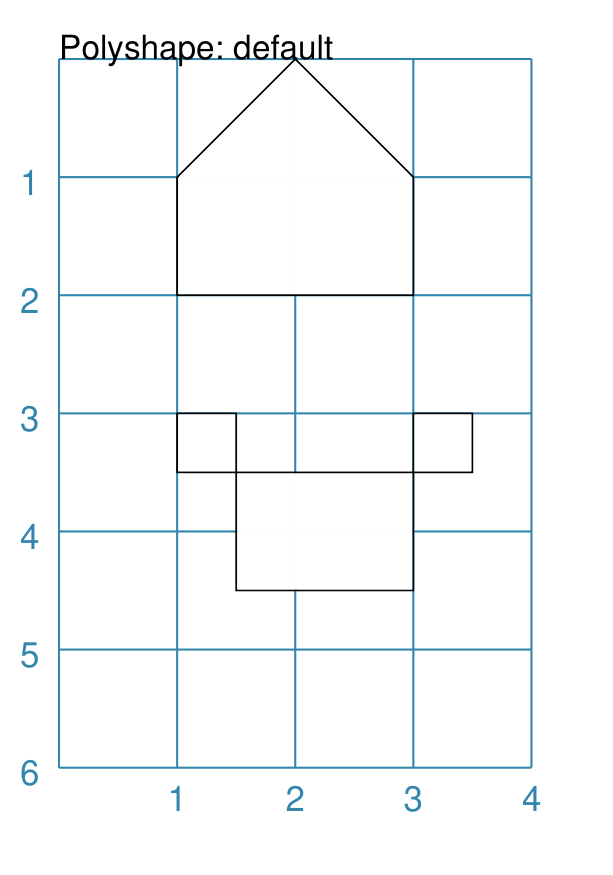
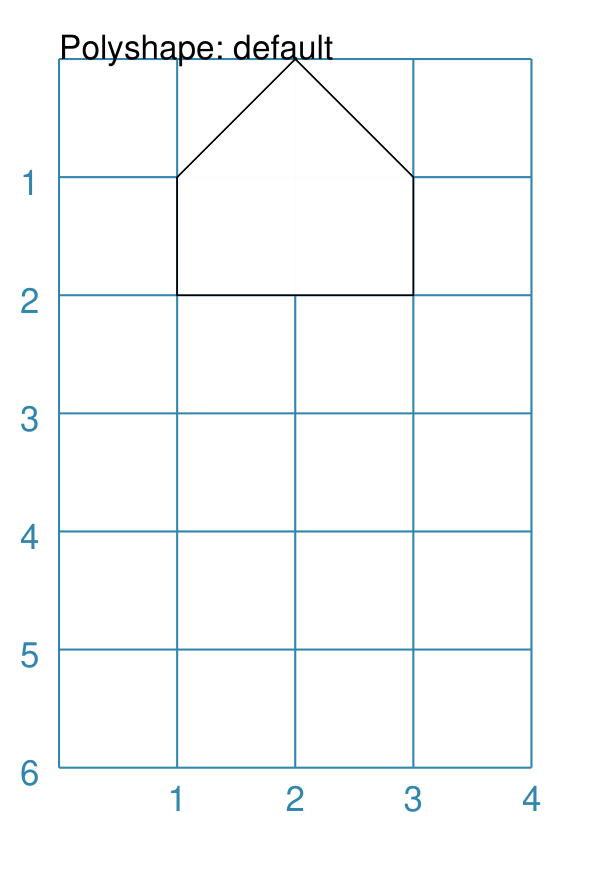
Add slices to Polygon shape

Changed region(s): [[0.279, 0.4629, 0.7749, 0.6789]]

diff --git a/protograf/shapes.py b/protograf/shapes.py
@@ -2975,6 +2975,47 @@ class PolygonShape(BaseShape):
             dotted=self.radii_dotted,
         )
 
+    def draw_slices(self, cnv, ID, centre: Point, vertexes: list, rotation=0):
+        """Draw triangles inside the Polygon
+
+        Args:
+            ID: unique ID
+            vertexes: list of Polygon's nodes as Points
+            centre: the centre Point of the Polygon
+            rotation: degrees anti-clockwise from horizontal "east"
+        """
+        # ---- get slices color list from string
+        if isinstance(self.slices, str):
+            _slices = tools.split(self.slices.strip())
+        else:
+            _slices = self.slices
+        # ---- validate slices color settings
+        slices_colors = [
+            colrs.get_color(slcolor)
+            for slcolor in _slices
+            if not isinstance(slcolor, bool)
+        ]
+        # ---- draw triangle per slice; iterate through colors as needed!
+        # print(f'*** PS {slices_colors=} {vertexes=}')
+        cid = 0
+        for vid in range(0, len(vertexes)):
+            scolor = slices_colors[cid]
+            vnext = vid + 1 if vid < len(vertexes) - 1 else 0
+            vertexes_slice = [vertexes[vid], centre, vertexes[vnext]]
+            cnv.draw_polyline(vertexes_slice)
+            self.set_canvas_props(
+                index=ID,
+                stroke=self.slices_stroke or scolor,
+                stroke_ends=self.slices_ends,
+                fill=scolor,
+                closed=True,
+                rotation=rotation,
+                rotation_point=muPoint(centre[0], centre[1]),
+            )
+            cid += 1
+            if cid > len(slices_colors) - 1:
+                cid = 0
+
     def get_geometry(self, rotation: float = None, is_rotated: bool = False):
         """Calculate centre, radius, side and vertices of Polygon."""
         # convert to using units
@@ -3091,6 +3132,15 @@ class PolygonShape(BaseShape):
         cnv.draw_polyline(vertices)
         kwargs["closed"] = True
         self.set_canvas_props(cnv=cnv, index=ID, **kwargs)
+        # ---- draw slices
+        if self.slices:
+            self.draw_slices(
+                cnv,
+                ID,
+                Point(x, y),
+                vertices,
+                rotation=kwargs.get("rotation"),
+            )
         # ---- draw radii
         if self.radii:
             self.draw_radii(cnv, ID, Point(x, y), vertices)

diff --git a/examples/core/customised_shapes.py b/examples/core/customised_shapes.py
@@ -227,6 +227,14 @@ Polygon(
     dot=0.1, dot_stroke="red")
 PageBreak()
 
+# ---- polygon slices
+Text(common=txt, text="Polygon: slices")
+Polygon(
+    cx=2, cy=1, sides=8, radius=1,
+    slices=['red', 'orange', 'yellow', 'green',
+            'aqua', 'pink', 'violet', 'purple'])
+PageBreak()
+
 # ---- dates
 Blueprint()
 Text(common=txt, text="Dates: format and styles")
@@ -438,8 +446,8 @@ PageBreak()
 Blueprint(stroke_width=0.5)
 Text(common=txt, text="Polyshape: default")
 Polyshape(points=[(1, 2), (1, 1), (2, 0), (3, 1), (3, 2)])
-Polyshape(x=1, y=3,
-         steps='0.5,0 0,1.5 1.5,0 0,-1.5 0.5,0 0,0.5 -2.5,0 0,-0.5')
+# Polyshape(x=1, y=3,
+#          steps='0.5,0 0,1.5 1.5,0 0,-1.5 0.5,0 0,0.5 -2.5,0 0,-0.5')
 PageBreak()
 
 # ---- polyshape - custom
@@ -838,7 +846,7 @@ Save(
         "starfield_poly", "equilateral_triangle", "right_angled_triangle_flip",
         "sectors", "grid_gray", "dotgrid_moleskine", "dotgrid_rowscols", "arc",
         "stadium_edges", "trapezoid_flip", "chord",
-        "polygon_radii", "polygon_perbis",
+        "polygon_radii", "polygon_perbis", "polygon_slices",
         "dates_formats",
         "images_normal_rotation", "rhombus_red_rotation",
         "stadium_red_rotation",

diff --git a/docs/source/core_shapes.rst b/docs/source/core_shapes.rst
@@ -1104,8 +1104,12 @@ is a polygon with 8 sides.
 
     **HINT** Unlike the `Hexagon`_ shape, a Polygon can be rotated!
 
+The following examples
+
+
 Example 1. Default Polygon
 ++++++++++++++++++++++++++
+`^ <polygon-command_>`_
 
 .. |pol| image:: images/defaults/polygon.png
    :width: 330
@@ -1127,6 +1131,7 @@ Example 1. Default Polygon
 
 Example 2. Polygon with Sides
 +++++++++++++++++++++++++++++
+`^ <polygon-command_>`_
 
 .. |pl1| image:: images/customised/polygon_sizes.png
    :width: 330
@@ -1137,9 +1142,15 @@ Example 2. Polygon with Sides
 
       .. code:: python
 
-        Polygon(cx=1, cy=5, sides=7, radius=1, label="Seven")
-        Polygon(cx=2, cy=3, sides=6, radius=1, label="Six")
-        Polygon(cx=3, cy=1, sides=5, radius=1, label="Five")
+        Polygon(
+            cx=1, cy=5, sides=7,
+            radius=1, label="Seven")
+        Polygon(
+            cx=2, cy=3, sides=6,
+            radius=1, label="Six")
+        Polygon(
+            cx=3, cy=1, sides=5,
+            radius=1, label="Five")
 
       It can be seen that each shape is constructed as follows:
 
@@ -1153,6 +1164,7 @@ Example 2. Polygon with Sides
 
 Example 3. Polygon Radii
 ++++++++++++++++++++++++
+`^ <polygon-command_>`_
 
 .. |pl2| image:: images/customised/polygon_radii.png
    :width: 330
@@ -1165,7 +1177,9 @@ Example 3. Polygon Radii
 
       .. code:: python
 
-          Polygon(cx=2, cy=4, sides=8, radius=1, radii=True)
+          Polygon(
+              cx=2, cy=4, sides=8, radius=1,
+              radii=True)
 
       It has the following properties:
 
@@ -1182,7 +1196,9 @@ Example 3. Polygon Radii
           Polygon(
               cx=2, cy=1, sides=10, radius=1,
               radii=True,
-              radii_offset=0.75, radii_length=0.25, radii_stroke_width=1,
+              radii_offset=0.75,
+              radii_length=0.25,
+              radii_stroke_width=1,
               dot=0.1, dot_stroke="red"
           )
 
@@ -1209,6 +1225,7 @@ Example 3. Polygon Radii
 
 Example 4. Polygon with Perbis
 ++++++++++++++++++++++++++++++
+`^ <polygon-command_>`_
 
 The *perbis* |dash| short for "perpendicular bisector" |dash| defines
 lines that should be drawn from the centres of the sides of the polygon
@@ -1225,7 +1242,9 @@ to the polygon's centre.
 
       .. code:: python
 
-          Polygon(cx=2, cy=4, sides=8, radius=1, perbis='*')
+          Polygon(
+              cx=2, cy=4, sides=8,
+              radius=1, perbis='*')
 
       It has the following properties:
 
@@ -1242,7 +1261,9 @@ to the polygon's centre.
           Polygon(
             cx=2, cy=1, sides=8, radius=1,
             perbis="2,4,7",
-            perbis_offset=0.25, perbis_length=0.5, perbis_stroke_width=1,
+            perbis_offset=0.25,
+            perbis_length=0.5,
+            perbis_stroke_width=1,
             dot=0.1, dot_stroke="red")
 
       It has the following properties:
@@ -1271,6 +1292,7 @@ to the polygon's centre.
 
 Example 5. Polygon Rotation
 +++++++++++++++++++++++++++
+`^ <polygon-command_>`_
 
 .. |pl4| image:: images/customised/polygon_rotation_flat.png
    :width: 330
@@ -1281,11 +1303,25 @@ Example 5. Polygon Rotation
 
       .. code:: python
 
-        Polygon(common=poly6, y=1, x=1.0, label="0")
-        Polygon(common=poly6, y=2, x=1.5, rotation=15, label="15")
-        Polygon(common=poly6, y=3, x=2.0, rotation=30, label="30")
-        Polygon(common=poly6, y=4, x=2.5, rotation=45, label="45")
-        Polygon(common=poly6, y=5, x=3.0, rotation=60, label="60")
+        Polygon(
+            common=poly6,
+            y=1, x=1.0, label="0")
+        Polygon(
+            common=poly6,
+            y=2, x=1.5,
+            rotation=15, label="15")
+        Polygon(
+            common=poly6,
+            y=3, x=2.0,
+            rotation=30, label="30")
+        Polygon(
+            common=poly6,
+            y=4, x=2.5,
+            rotation=45, label="45")
+        Polygon(
+            common=poly6,
+            y=5, x=3.0,
+            rotation=60, label="60")
 
       The examples have the following properties:
 
@@ -1298,6 +1334,36 @@ Example 5. Polygon Rotation
 
 ===== ======
 
+Example 6. Polygon Slices
++++++++++++++++++++++++++
+`^ <polygon-command_>`_
+
+Slices are a set of colors that are drawn as triangles inside a
+a Polygon in a clockwise direction starting from the "South East".
+If there are fewer colors than all the possible triangles, then the
+colors are repeated, starting from the first one.
+
+.. |pl5| image:: images/customised/polygon_slices.png
+   :width: 330
+
+===== ======
+|pl5| This example shows a Polygon constructed using these commands:
+
+      .. code:: python
+
+        Polygon(
+            cx=2, cy=1, sides=8, radius=1,
+            slices=['red', 'orange', 'yellow', 'green',
+                    'aqua', 'pink', 'violet', 'purple'])
+
+      This example has the following properties:
+
+      - *cx* and *cy* - set the centre location
+      - *radius* - ``1`` cm
+      - *sides* - set to ``8`` (an octagon)
+      - *slices* - list of named colors that will be drawn
+        seqentially
+===== ======
 
 .. _polyshape-command:
 
@@ -1331,7 +1397,12 @@ Example 1. Default Polyshape
       .. code:: python
 
         Polyshape(
-          points=[(1, 2), (1, 1), (2, 0), (3, 1), (3, 2)])
+          points=[
+              (1, 2),
+              (1, 1),
+              (2, 0),
+              (3, 1),
+              (3, 2)])
 
       It has the following properties:
 
